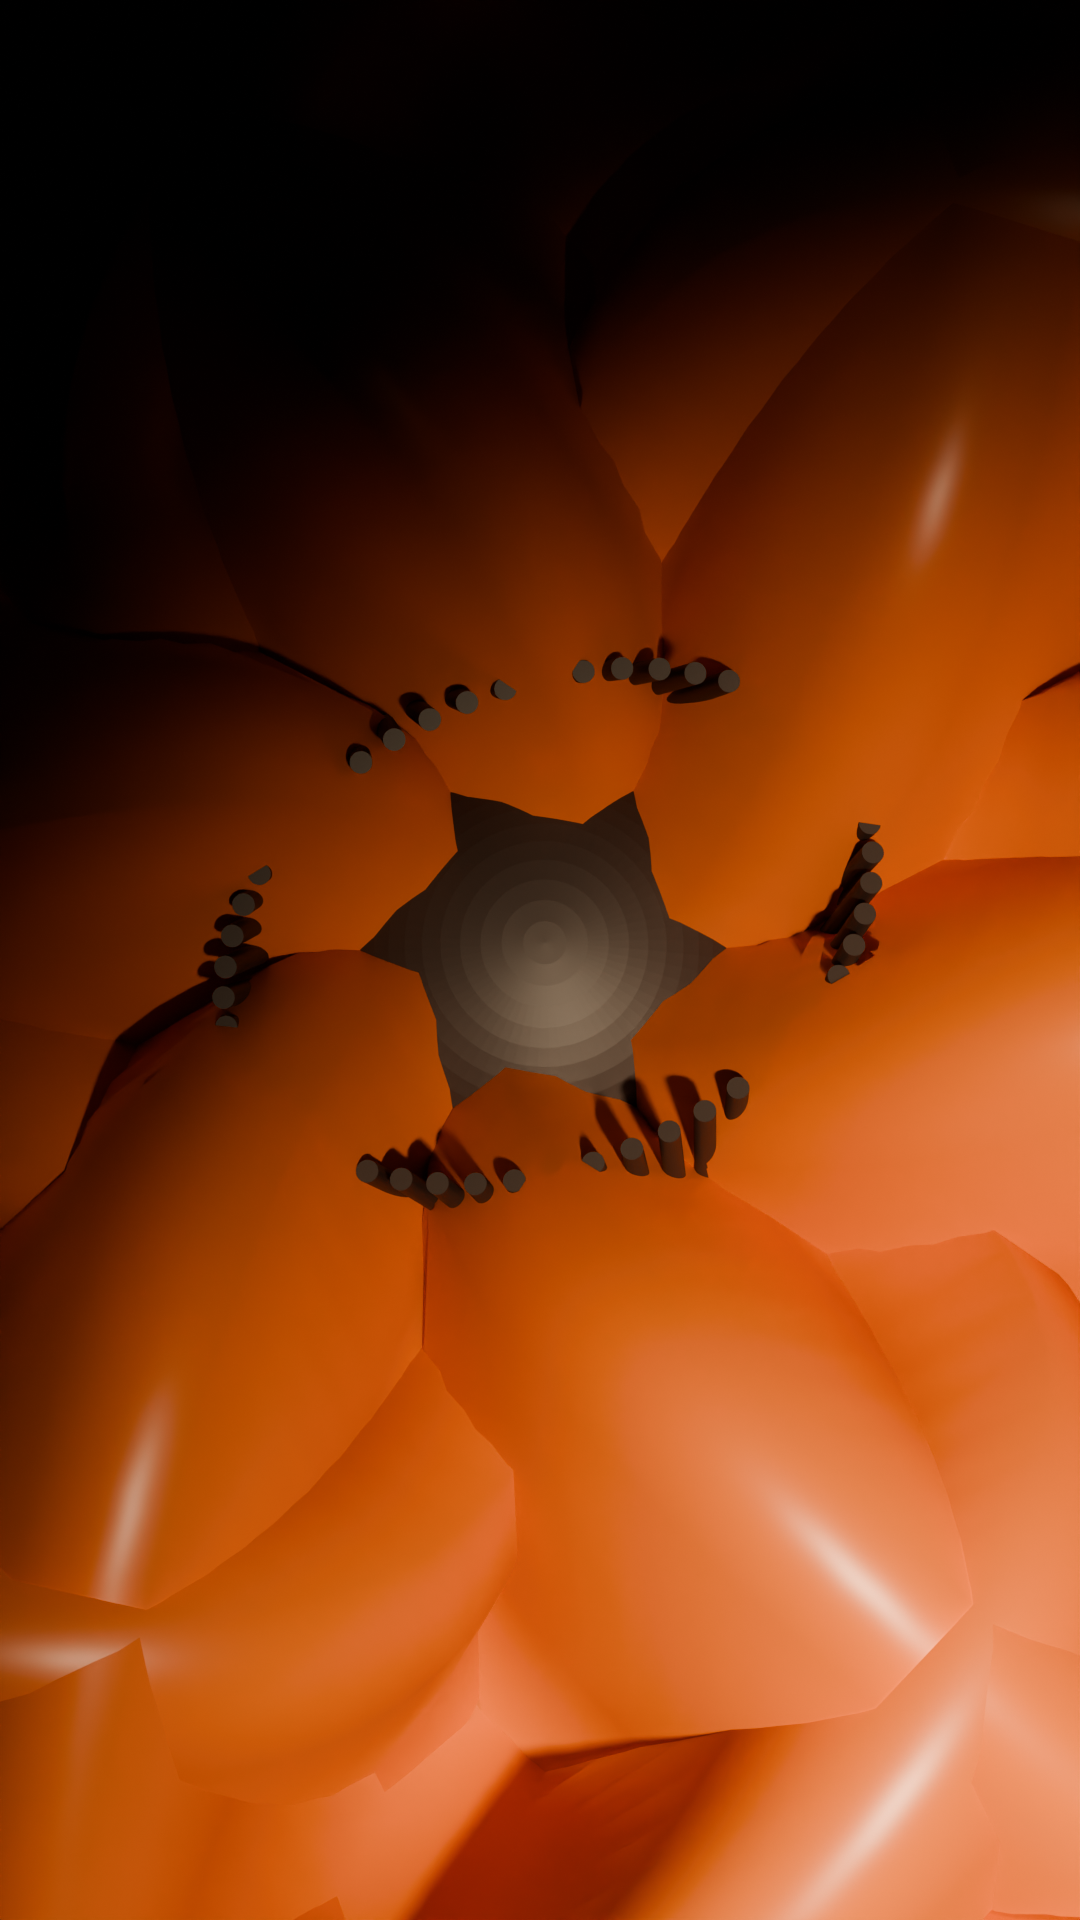
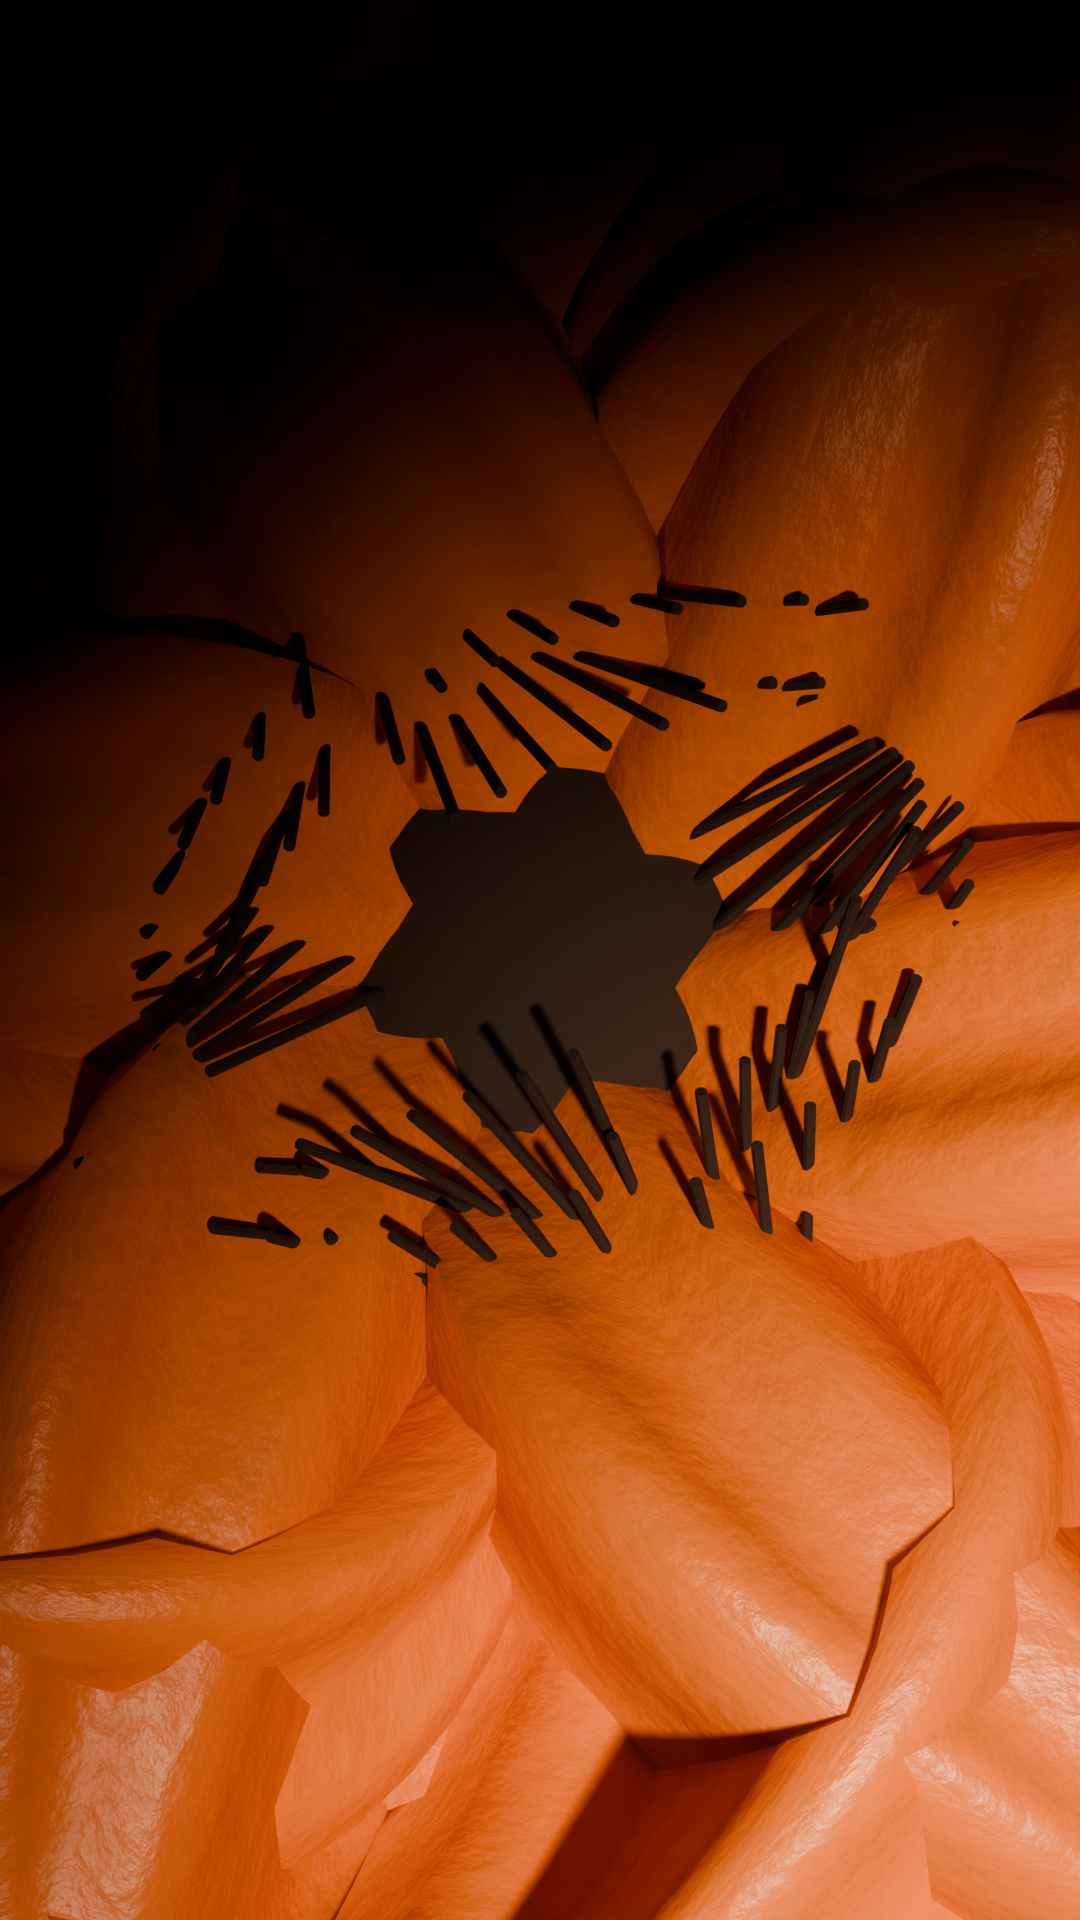
003: re-extract the join off the re-shaded Act I
Act I re-rendered with the creased petals, the splayed stamens and the velvet
boss, so handoff.py was re-run against it: act1_last.png is the new final lit
frame, and WARM in video.html is the ramp k-means pulled out of it.

The ramp moved by one to three levels per channel and the six petal axes and
the head's projected origin did not move at all — which is the point of
extracting them rather than typing them. The backdrop still had to be
replaced: it is POPPY, the ground every technique in the back half composites
over, and it is a different picture now even where its palette is not.

Claude-Session: https://claude.ai/code/session_01Fzmr7tD4mjJoM7s1Yy9ziV

diff --git a/projects/003-it-isnt-moving-yet/source/video.html b/projects/003-it-isnt-moving-yet/source/video.html
@@ -191,8 +191,8 @@ const NPROF=96;
 // in value, it must not leave the warm family. The paint is the flower's
 // colour because it came from the flower, not because two swatches were
 // matched by eye. Re-run handoff.py after any change to the Blender lighting.
-const WARM=['#F5411A','#E7640A','#CE4209','#B66708',
-            '#9E2107','#863806','#734B05','#641204'];
+const WARM=['#F5421A','#E7630A','#CE4509','#B66A08',
+            '#9E1D07','#863806','#734B05','#641204'];
 // The cools are the five techniques' own accents, seeded into the bloom so
 // that the detonation contains the colours of everything that follows it.
 const COOL=['#1F5F6B','#2C5FA8','#3F7A3A','#7A2E52','#E8B25C','#D9C08A'];
